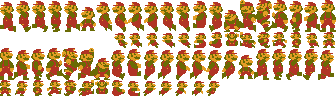
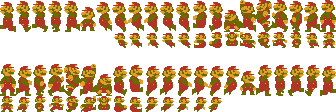
Mario

diff --git a/Mario/src/Graficos2/GamePanel.java b/Mario/src/Graficos2/GamePanel.java
@@ -6,6 +6,7 @@ import javax.swing.JPanel;
 import ClasesPadre.Personaje;
 import Inputs.InptutMouse;
 import Inputs.InputTeclado;
+
 import java.awt.Graphics;
 import java.awt.Image;
 import java.awt.event.KeyListener;
@@ -17,8 +18,11 @@ import java.awt.Dimension;
 public class GamePanel extends JPanel {
 
     private InptutMouse mouseimput = new InptutMouse(this);
-    private int x = 0, y = 0;
-    public Personaje mario = new Personaje("res/MarioSheet.png");
+    private int x = 0, y = 0, direccionanimacion = 1;
+    public Personaje mario = new Personaje("res/mario.png");
+    static int contador = 0;
+    public BufferedImage aux;
+    private int xanimacion;
 
     public GamePanel() {
         setPreferredSize(new Dimension(1280, 800));
@@ -29,7 +33,24 @@ public class GamePanel extends JPanel {
 
     public void paintComponent(Graphics g) {
         super.paintComponent(g);
-        g.drawImage(mario.imagen.getSubimage(1 * 24, 0, 24, 16), mario.posicionX, mario.posicionY, null);
+        contador++;
+        if (mario.quieto) {
+            aux = mario.quietoder;
+        }
+        if (contador >= mario.velocidadAnimacion && mario.moverDerecha) {
+            contador = 0;
+            if (xanimacion == 2) {
+                direccionanimacion = -1;
+            }
+            if (xanimacion == 0) {
+                direccionanimacion = 1;
+            }
+
+            xanimacion += direccionanimacion;
+            aux = mario.animacionCaminarGrande[xanimacion];
+        }
+
+        g.drawImage(aux, mario.posicionX, mario.posicionY, null);
 
     }
 

diff --git a/Mario/src/Inputs/InputTeclado.java b/Mario/src/Inputs/InputTeclado.java
@@ -21,14 +21,18 @@ public class InputTeclado implements KeyListener {
     public void keyPressed(java.awt.event.KeyEvent e) {
         switch (e.getKeyCode()) {
             case KeyEvent.VK_A:
-                
+
                 panel.mario.posicionX -= 10;
+                panel.mario.moverDerecha = true;
+                panel.mario.quieto = false;
                 break;
             case KeyEvent.VK_W:
                 panel.mario.posicionY -= 10;
                 break;
             case KeyEvent.VK_D:
                 panel.mario.posicionX += 10;
+                panel.mario.moverDerecha = true;
+                panel.mario.quieto = false;
                 break;
             case KeyEvent.VK_S:
                 panel.mario.posicionY += 10;
@@ -45,14 +49,18 @@ public class InputTeclado implements KeyListener {
 
         switch (e.getKeyCode()) {
             case KeyEvent.VK_A:
-                
+
                 panel.mario.posicionX -= 10;
+                panel.mario.moverDerecha = false;
+                panel.mario.quieto = true;
                 break;
             case KeyEvent.VK_W:
                 panel.mario.posicionY -= 10;
                 break;
             case KeyEvent.VK_D:
                 panel.mario.posicionX += 10;
+                panel.mario.moverDerecha = false;
+                panel.mario.quieto = true;
                 break;
             case KeyEvent.VK_S:
                 panel.mario.posicionY += 10;

diff --git a/Mario/src/ClasesPadre/Personaje.java b/Mario/src/ClasesPadre/Personaje.java
@@ -14,16 +14,22 @@ public class Personaje extends Entidad {
 
     // *Porsicion del personaje en la pantalla */
     public int posicionX = 0, posicionY = 0;
-    public BufferedImage[] animacionIdle;
+    // Cada cuantos frames se actualiza la animacion
+    public int velocidadAnimacion = 20;
+    public BufferedImage[] animacionCaminarGrande;
+    public BufferedImage quietoder = imagen.getSubimage(0 * 16, 2 * 32, 16, 32);
+    public BufferedImage quietoizq = imagen.getSubimage(20 * 16, 0 * 32, 16, 32);
+    public boolean moverDerecha = false, quieto = true;
 
     // #region Metodos
     // *Dir reseprenta la direccion de la hoja de sprite correspondiente */
     public Personaje(String Dir) {
         super(Dir);
+        animacionCaminarGrande();
     }
 
-    public void animacionIdle() {
-        animacionIdle = animacion(3, 0, 3, 24, 16, 0);
+    public void animacionCaminarGrande() {
+        animacionCaminarGrande = animacion(3, 1, 3, 16, 32, 2);
     }
 
 }

diff --git a/Mario/src/ClasesPadre/Entidad.java b/Mario/src/ClasesPadre/Entidad.java
@@ -23,7 +23,7 @@ public class Entidad {
 
     public BufferedImage[] animacion(int size, int xInicial, int xfinal, int ancho, int alto, int fila) {
         BufferedImage[] animacion = new BufferedImage[size];
-        for (int i = xInicial; i < xfinal; i++) {
+        for (int i = xInicial; i <= xfinal; i++) {
             animacion[i - xInicial] = imagen.getSubimage(i * ancho, fila * alto, ancho, alto);
         }
         return animacion;

diff --git a/Mario/src/Game/Gui.java b/Mario/src/Game/Gui.java
@@ -101,9 +101,10 @@ public class Gui extends Canvas implements Runnable {
 
             while (delta >= 1) {
                 actualizar();
+                mostrar();
                 delta--;
             }
-            mostrar();
+            
         }
     }
 
